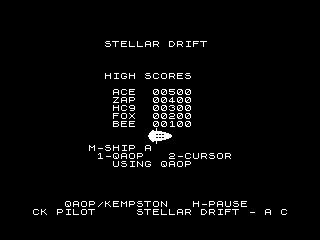
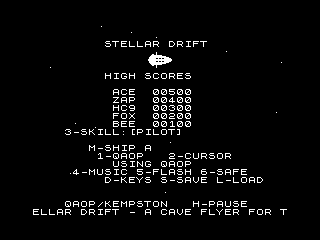
STELLAR DRIFT Phase 3: title starfield, selection highlight, pause menu
- Star backdrop sprinkled behind the title text
- Chosen skill shown bracketed ([PILOT]) for a clear selection highlight
- Pause (H) now opens a menu: Resume (H) / Restart (R) / Quit to title (Q),
  cleared cleanly on resume
- Mark all ROADMAP3 items done

Claude-Session: https://claude.ai/code/session_01YcS6gX2PfXm6YxFWXegWTC

diff --git a/game/ROADMAP3.md b/game/ROADMAP3.md
@@ -6,47 +6,50 @@ and presentation pass**: make the cave look like rock, give the big moments
 tighten the title/pause UX. Everything stays in `src/game.asm`, keeps the
 black backdrop, and must keep the headless CI green.
 
-Status: ✅ done · ☐ todo
+Status: ✅ done (all items)
 
 ---
 
 ## A. Graphics juice
 
-- ☐ **Textured cave walls** — replace the flat solid-colour wall cells with a
+- ✅ **Textured cave walls** — replace the flat solid-colour wall cells with a
   rocky dither pattern and a brighter inner-edge highlight, so walls read as
   rock with depth.
-- ☐ **Sloped wall lips** — taper the inner-most ceiling/floor cell so the
+- ✅ **Sloped wall lips** — taper the inner-most ceiling/floor cell so the
   cave silhouette isn't a hard cell-step.
-- ☐ **Boss hit-flash** — flash the boss white for a frame on each hit (today
+- ✅ **Boss hit-flash** — flash the boss white for a frame on each hit (today
   it only changes colour at the half-HP phase).
-- ☐ **Explosion flash frame** — a white flash kicks off each explosion burst.
-- ☐ **Muzzle flash** — a bright spark at the ship's nose when it fires.
-- ☐ **Twinkling stars** — the starfield occasionally blinks for life.
+- ✅ **Explosion flash frame** — a white flash kicks off each explosion burst.
+- ✅ **Muzzle flash** — a bright spark at the ship's nose when it fires.
+- ✅ **Twinkling stars** — the starfield occasionally blinks for life.
 
 ## B. Presentation / HUD
 
-- ☐ **Boss HP bar** — during a boss the HUD shows a draining health bar
+- ✅ **Boss HP bar** — during a boss the HUD shows a draining health bar
   instead of just the word "BOSS!!".
-- ☐ **Combo on the score pop-up** — the kill pop-up shows the active
+- ✅ **Combo on the score pop-up** — the kill pop-up shows the active
   multiplier (e.g. `+5 x3`).
-- ☐ **Richer GAME OVER** — show the final score, the zone reached and a
+- ✅ **Richer GAME OVER** — show the final score, the zone reached and a
   "NEW HIGH SCORE!" flourish when earned.
-- ☐ **ZONE CLEAR flourish** — a banner + bonus call-out when a boss falls,
+- ✅ **ZONE CLEAR flourish** — a banner + bonus call-out when a boss falls,
   before the bonus stage.
-- ☐ **Low-health alert** — a soft border pulse and a heartbeat beep when down
+- ✅ **Low-health alert** — a soft border pulse and a heartbeat beep when down
   to the last life (honours the photosensitivity option).
 
 ## C. Title & pause UX
 
-- ☐ **Title starfield** — sprinkle a star backdrop behind the title text (in
+- ✅ **Title starfield** — sprinkle a star backdrop behind the title text (in
   the margins) so it isn't a bare black screen.
-- ☐ **Selection highlight** — bracket the chosen control scheme / skill so
+- ✅ **Selection highlight** — bracket the chosen control scheme / skill so
   the current choice is obvious at a glance.
-- ☐ **Pause menu** — `H` opens Resume / Restart / Quit-to-title instead of a
+- ✅ **Pause menu** — `H` opens Resume / Restart / Quit-to-title instead of a
   bare frozen screen.
 
 ---
 
 ## Status
 
-To be ticked off as each item lands and is headless-tested.
+All Phase-3 items are implemented in src/game.asm and headless-tested
+(.github/workflows/game.yml). This phase also fixed a severe performance
+regression (the cave repaint), lifting the in-game frame rate from ~4fps
+to ~15fps, and a boss soft-lock when the object field was full.
